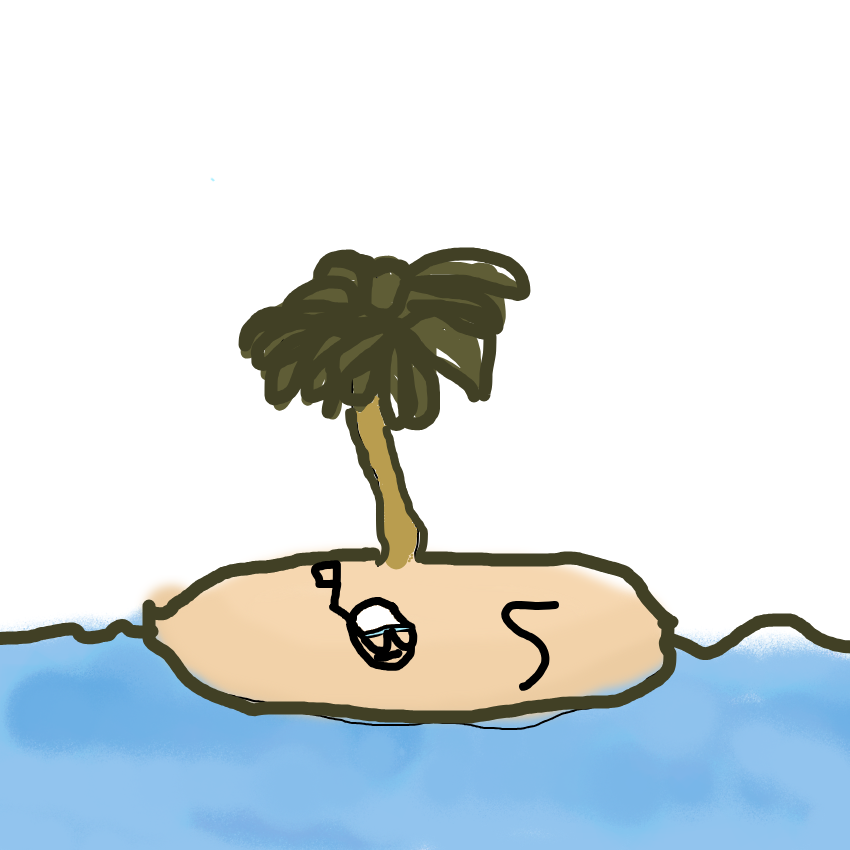
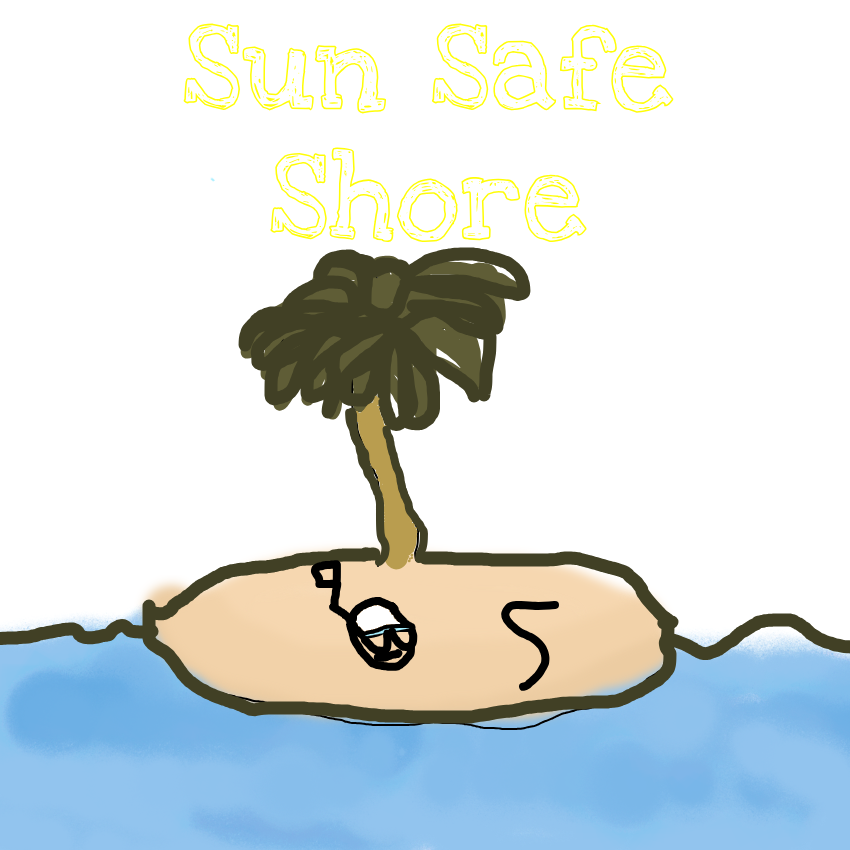
Done with basics for home, can now just coast through the other windows

Changed region(s): [[0.3059, 0.1835, 0.7035, 0.3059], [0.4894, 0.0306, 0.7953, 0.1529], [0.2141, 0.0306, 0.4588, 0.1529]]

diff --git a/hub_copy.html b/hub_copy.html
@@ -7,23 +7,25 @@
 
         <meta name="viewport" content="width=device-width, initial-scale=1.0">
         <meta http-equiv="X-UA-Compatible" content="ie=edge">
-        <title>Sun Safe Hub</title>
+        <title>Events</title>
     </head>
     <body>
         <script src="script.js"></script>
         <nav>
             <div id = "sun-safe">
                 <img src="sun-safe.png" alt = "sun-safe-logo" />
-
-                
+                <div id = "title">
+                    <h1>Sun Safe Shore - your own little nook for skin cancer awareness</h1>
+                </div>
+                <img src = "chill_turtle.jfif" />
             </div>
             <div id="nav_options">
-                <div id="home_button">
+                <div id="home-button">
                     <img src = "option-sign.png" />
                     <div id = "home_description" class="description"><p>Where you are!</p></div>
                 </div>
                 <div id = "cancer_types_button">
-                    <img onclick="cancer_types_href()" src = "cancer-types-button.jpeg"/>
+                    <img onmouseclick="cancer_types_href()"  src = "cancer-types-button.jpeg"/>
 
                    <div id="cancer_types_description" class = "description" ><p>Learn about the most common skin cancers, such as melanoma</p></div>
                 </div>
@@ -31,20 +33,15 @@
                      <img src = "how_to_stay_safe_button.jpeg" />
                     <div id = "how_to_stay_safe_description" class = "description"><p>Learn the common causes of skin cancer, and how to avoid them</p></div>
                 </div>
-                <div id = "quiz_button"><img src="quiz_button.jpeg" />
-                    <div id = "quiz_description" class="description"><p>Test your knowledge in a ultimate quiz!</p></div>
-                </div>
-            </div>
+                
 
 
             </div>
             
         </nav>
 
-        <div id="home"></div>
 
 
 
-        <div id = "plug"><p>Have any questions or concerns? Please email <a href = mailto:"maxisnotarichguy@gmail.com" target = "_blank">maxisnotarichguy@gmail.com</a> </p></div>
     </body>
 </html>

diff --git a/style.css b/style.css
@@ -20,6 +20,8 @@ nav {
 	border: 5px solid #63492b;
     border-radius: 25px;
     margin-bottom: 500px;
+    display: inline-flex;
+    justify-content: center;
  }
  
 
@@ -38,7 +40,6 @@ body {
 
 #sun-safe {
     display: inline-flex;
-    margin-right: 500px;
     flex-direction: row;
     justify-content: space-between;
     align-items: center;
@@ -61,13 +62,46 @@ body {
     flex-direction: row;
 }
 
-
-.description:hover {
-    display: inline;
-}
-
-
-#home_description {
+#cancer_types_button #cancer_types_description {
     display: none;
+  }
+  
+#cancer_types_button:hover #cancer_types_description {
+    display: block;
+  }
+
+
+#home_button #home_description {
+    display: none;
+  }
+  
+#home_button:hover #home_description {
+    display: block;
+  }
+
+#how_to_stay_safe_button #how_to_stay_safe_description {
+    display: none;
+  }
+  
+#how_to_stay_safe_button:hover #how_to_stay_safe_description {
+    display: block;
+  }
+
+#quiz_button #quiz_description {
+    display: none;
+  }
+  
+#quiz_button:hover #quiz_description {
+    display: block;
+  }
+
+#plug {
+    background-color: white;
+    border: 10px solid black;
 }
 
+#plug:hover {
+    background-color: black;
+    border-color: white;
+    color: white;
+}

diff --git a/script.js b/script.js
@@ -2,6 +2,13 @@ let logo = document.getElementById("sun-safe")
 let nav = document.querySelector("nav")
 let home_description = document.getElementById("home_description")
 let home_button = document.getElementById("home_button")
+let cancer_types_description = document.getElementById("cancer_types_description")
+
+home_button.addEventListener("mouseenter", revealDescription )
+
+function revealDescription() {
+    home_description.style.visibility = "visible"
+}
 
 
 var funky_boi = new Audio('funky_yokai.mp3')
@@ -9,11 +16,21 @@ var funky_boi = new Audio('funky_yokai.mp3')
 funky_boi.play()
 
 
+function cancer_types_href() {
+    window.open("hub_copy.html")
+}
 
+
+function showCancerDescription() {
+    cancer_types_description.style.display = "inline"
+}
 
 
 logo.onclick = function() {
     window.location='http://www.google.com';
 
 }
+
+
+
 
